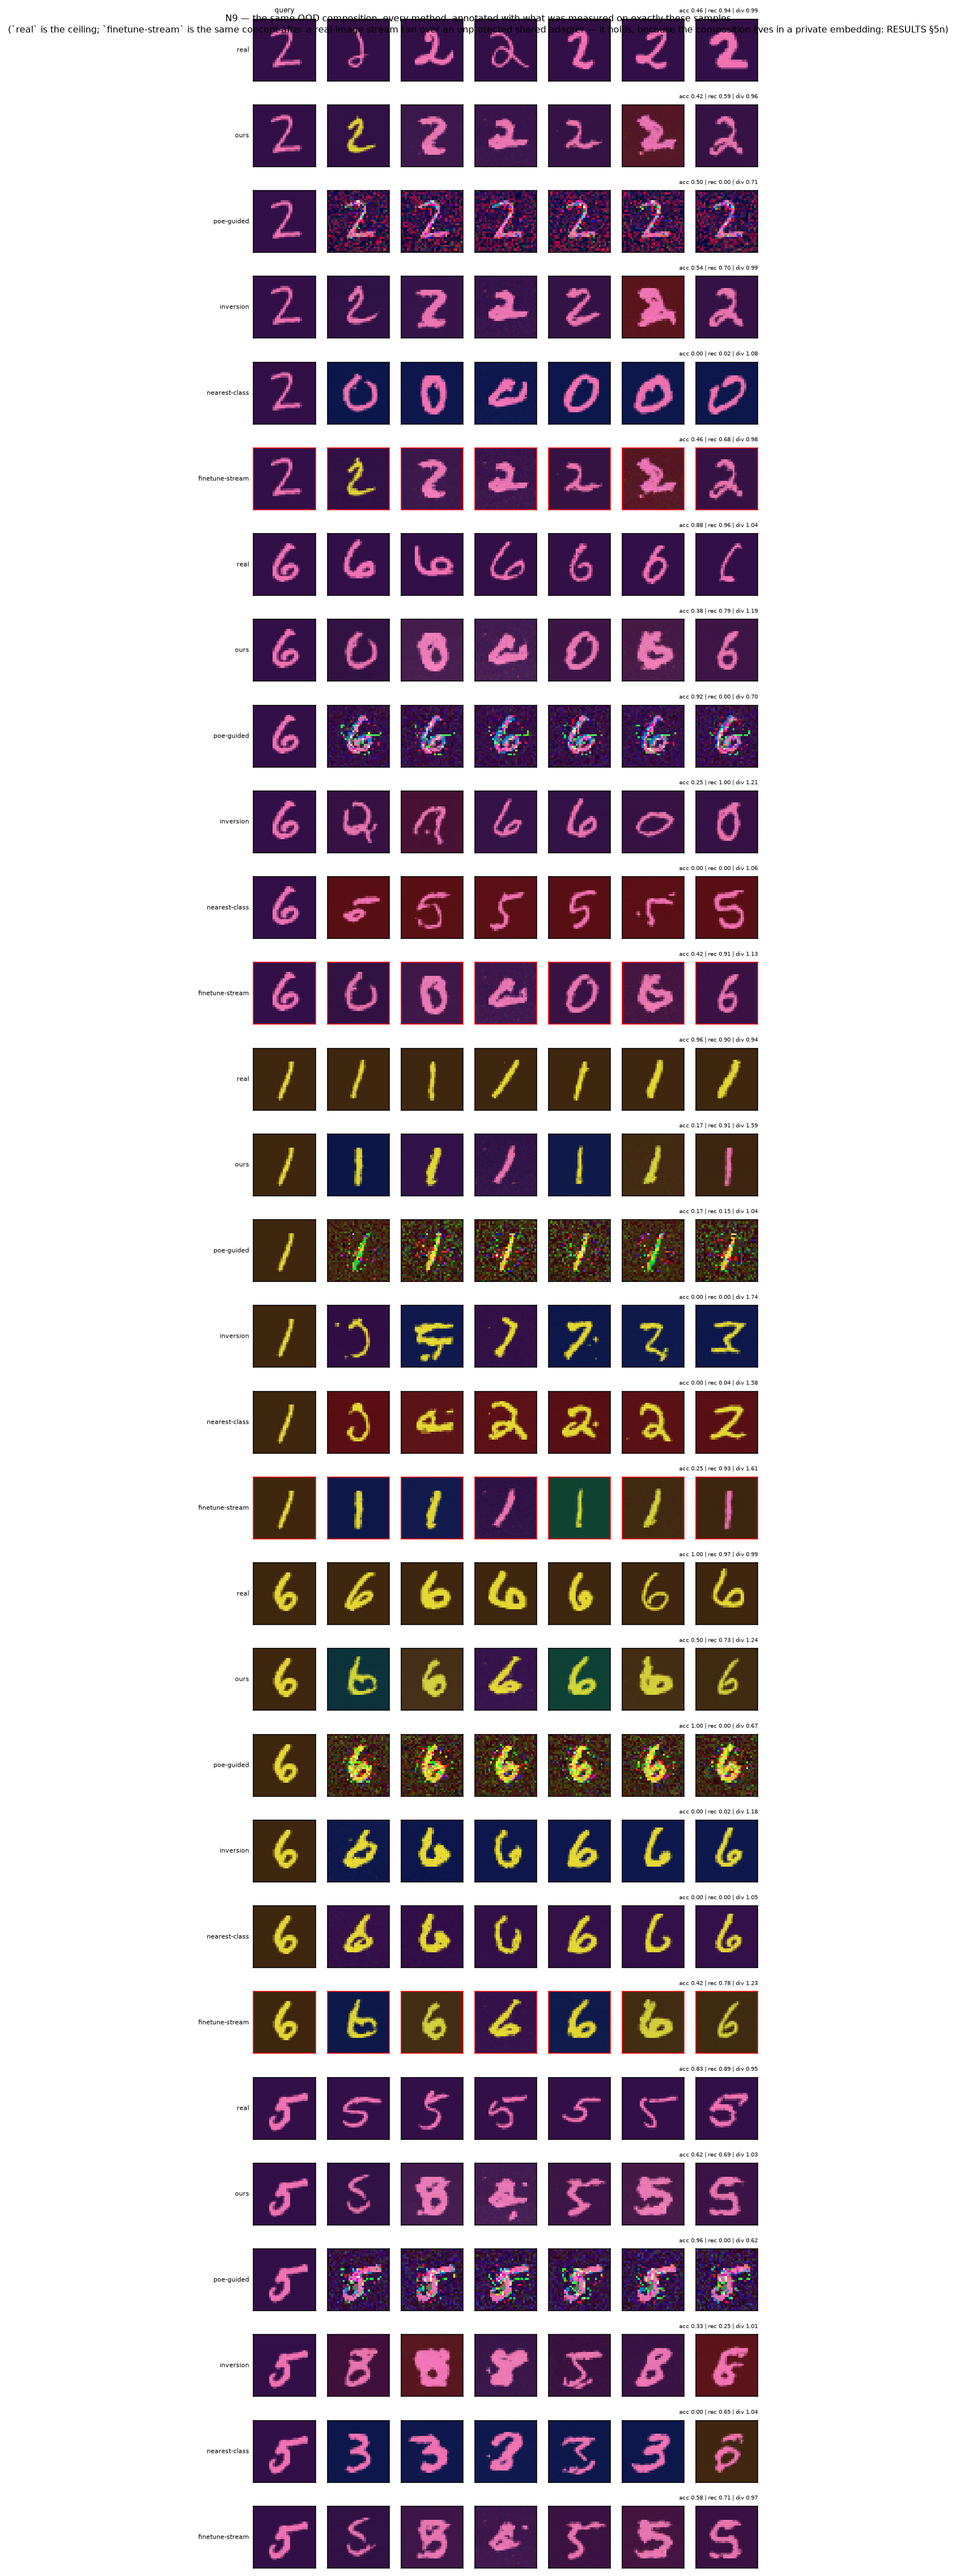
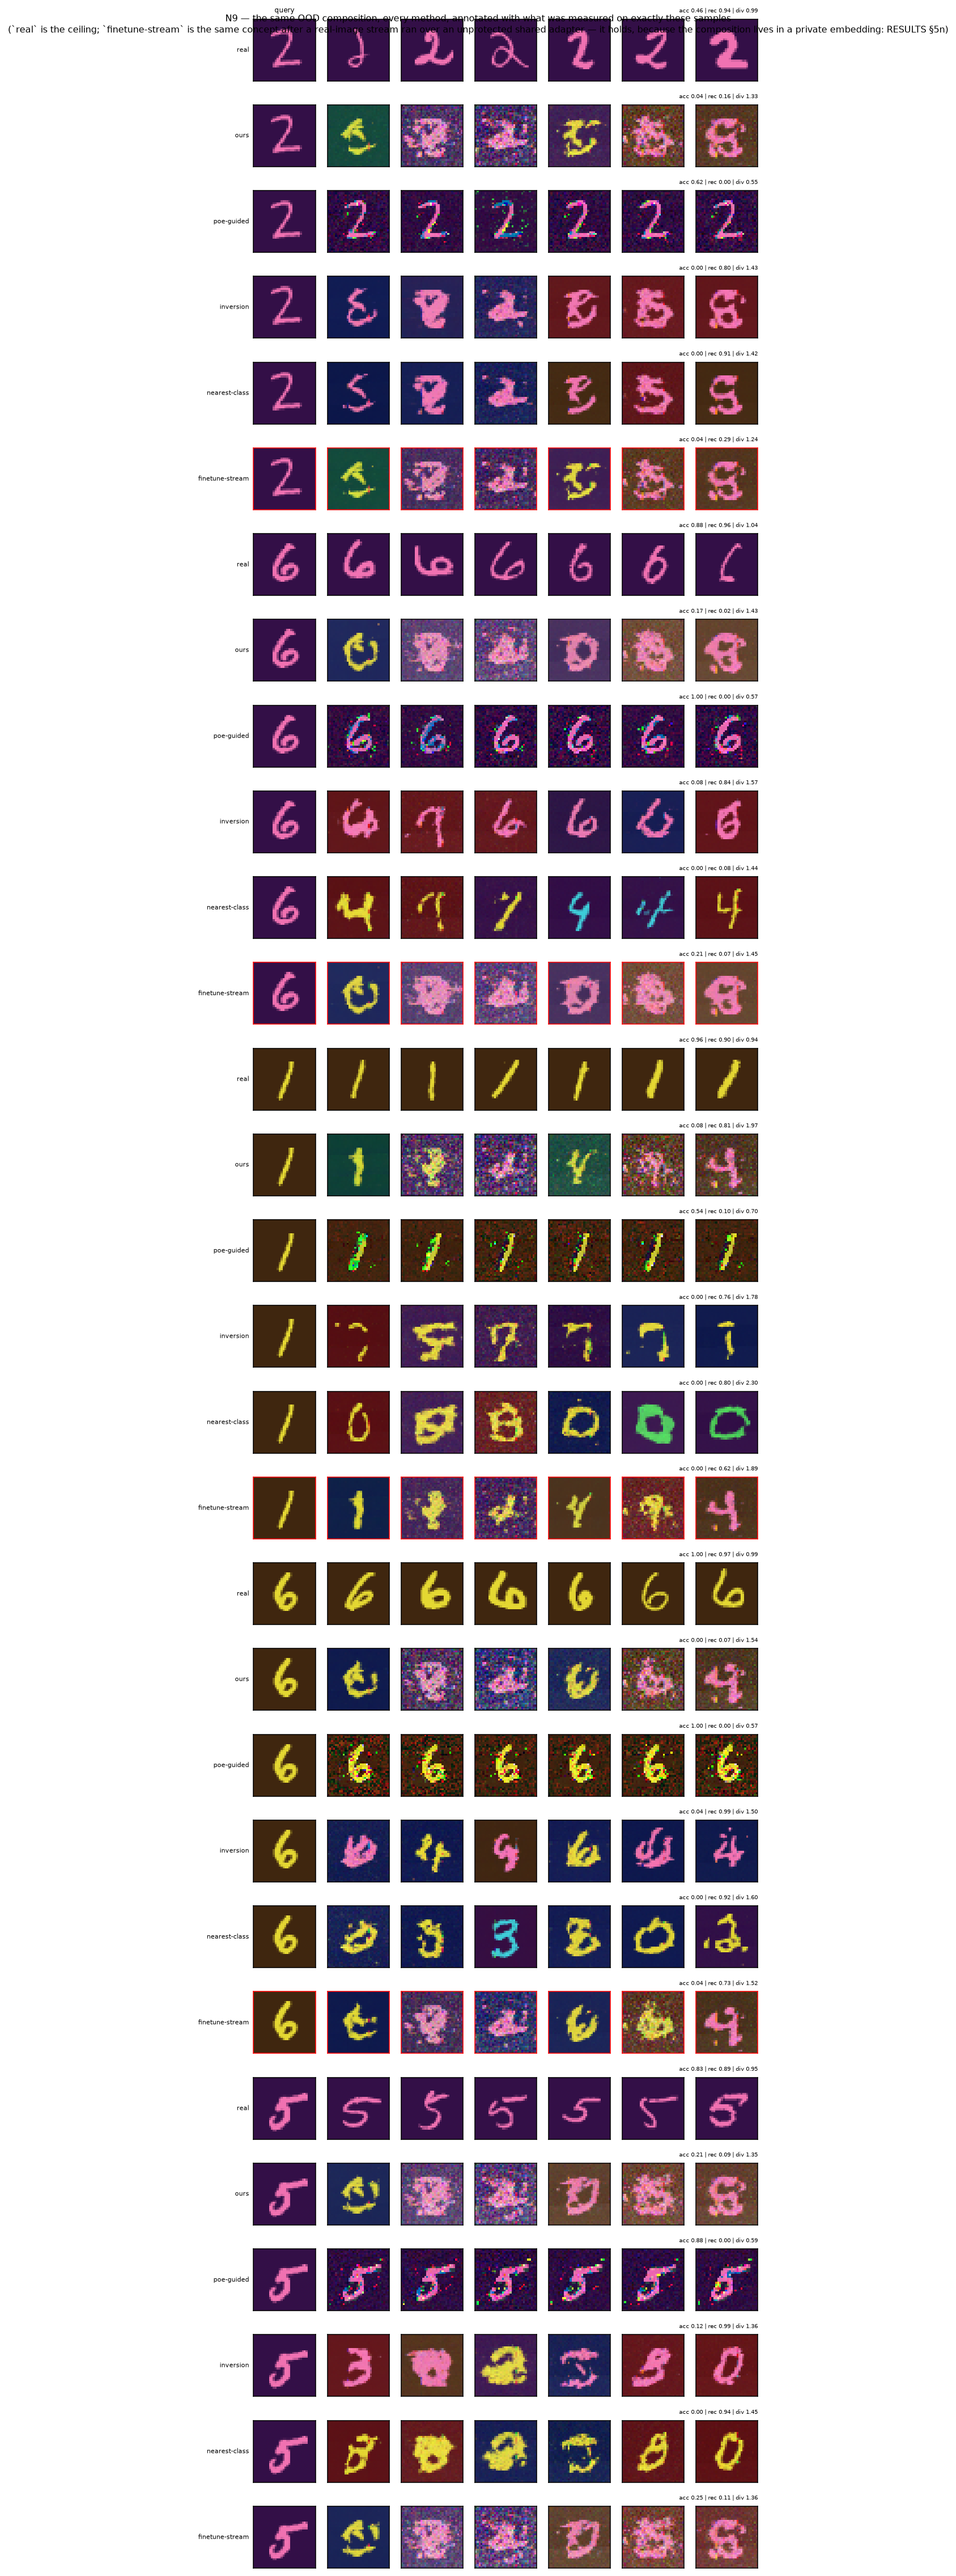
Calibrate the composer's gain per backbone; record the reproducibility failure
I destroyed the ColorMNIST backbone: n1_train's --out defaulted to ddpm_colormnist.pt
regardless of --dataset, so training CelebA wrote over it.  The default now follows the
dataset.  Retraining exposed two things.

My retrain was not the original run -- 60 epochs / 100 per slot against the original's 200
/ 200, recorded in the run table.  On the undertrained backbone N9 `ours` collapses from
0.42 acc / F1 0.57 to 0.10 / 0.05 while `real` is unchanged at 0.82 / 0.96, since that row
is data rather than model.  A correct retrain is running.

More usefully: the background gain was a constant tuned to one checkpoint.  Two runs of the
same training command give ideal-words R^2 0.816 vs 0.746, and the hardcoded 2.0 does not
transfer -- on the retrained backbone the calibrator picks 3.0, at the top of its grid.
common.py:backbone_gains now calibrates the gain on whatever backbone it is given, using
SEEN slots only, so no held-out label is touched.  The composer is a function of its
backbone instead of a literal.

Changed region(s): [[0.3391, 0.031, 0.8014, 0.4035], [0.3391, 0.4345, 0.8014, 0.807], [0.3391, 0.838, 0.8014, 1.0]]

diff --git a/experiments/n9_showdown.py b/experiments/n9_showdown.py
@@ -39,7 +39,7 @@ import torch
 
 sys.path.insert(0, os.path.dirname(os.path.dirname(os.path.abspath(__file__))))
 sys.path.insert(0, os.path.dirname(os.path.abspath(__file__)))
-from common import CACHE, RESULTS, ood_queries                         # noqa: E402
+from common import CACHE, RESULTS, backbone_gains, ood_queries         # noqa: E402
 
 from lifelong_ood.datasets import load_colormnist, slot_name           # noqa: E402
 from lifelong_ood.evals import (composition_accuracy, fit_probes, precision_recall,  # noqa: E402
@@ -70,7 +70,8 @@ def main():
     p.add_argument("--steps", type=int, default=50)
     p.add_argument("--inv-steps", type=int, default=400)
     p.add_argument("--epochs", type=int, default=40)
-    p.add_argument("--bg-gain", type=float, default=2.0)
+    p.add_argument("--bg-gain", type=float, default=-1.0,
+                   help="fixed background gain; <=0 calibrates it on this backbone")
     p.add_argument("--stream-len", type=int, default=6,
                    help="concepts learned AFTER the case, so the forgetting arms have forgotten")
     p.add_argument("--stream-source", choices=("real", "factored"), default="real",
@@ -91,7 +92,12 @@ def main():
     remap = ck["remap"]
     slots_seen = np.array(sorted(remap))
     C = ck["ema"]["cemb.weight"].numpy()[[remap[int(x)] for x in slots_seen]]
-    gains = [1.0, 1.0, args.bg_gain]
+    # calibrated on THIS backbone from seen slots, not hardcoded: the constant 2.0 was tuned
+    # against one checkpoint and does not transfer to a retrained one (RESULTS 5p).
+    field0 = load_field(args.ckpt, device=dev)
+    gains = ([1.0, 1.0, args.bg_gain] if args.bg_gain > 0 else
+             backbone_gains(field0, C, slots_seen, probes, data, seed=args.seed,
+                            steps=args.steps, n=8 if args.quick else 16))
 
     qs = ood_queries(data, n_slots=args.n_cases + args.stream_len, seed=args.seed)
     cases, stream = qs[:args.n_cases], qs[args.n_cases:]

diff --git a/experiments/common.py b/experiments/common.py
@@ -102,3 +102,34 @@ def ood_queries(data, n_slots=None, seed=0):
         out.append(dict(slot=int(s), query=q, rest=idx[idx != q],
                         d=int(data["digit"][q]), f=int(data["fg"][q]), b=int(data["bg"][q])))
     return out
+
+
+def backbone_gains(field, C, slots_seen, probes, data, factor=2, grid=(1.0, 1.5, 2.0, 2.5, 3.0),
+                   n_slots=6, n=16, steps=50, seed=0, verbose=True):
+    """Per-factor gain calibrated on THIS backbone, using seen slots only.
+
+    The gain corrects the model's under-response to a factor -- background, in ColorMNIST.  It was
+    previously hardcoded to 2.0, which was tuned against one checkpoint; a retrained backbone has a
+    different embedding table (ideal-words R^2 0.816 -> 0.746 across two runs of the same command)
+    and the constant does not transfer.  Calibrating here makes the composer a function of the
+    backbone it is given rather than of a checkpoint that happened to exist.
+
+    Only SEEN slots are used, so no held-out label is touched: composing a training slot from the
+    factorization and asking whether the model reproduces it is label-free.
+    """
+    from lifelong_ood.evals import composition_accuracy
+    from lifelong_ood.neural.idealwords import calibrate_gains, slot_factors
+
+    def score_fn(S, d, f, b):
+        return composition_accuracy(probes, S, d, f, b)["joint"]
+
+    from lifelong_ood.neural.idealwords import factorize
+    fac = factorize(C, slot_factors(slots_seen))
+    g, sc = calibrate_gains(field, fac, probes, data, slots_seen, grid=grid, factor=factor,
+                            n_slots=n_slots, n=n, steps=steps, seed=seed, score_fn=score_fn)
+    gains = [1.0] * len(fac["V"])
+    gains[factor] = g
+    if verbose:
+        print(f"[calib] ideal-words R^2 {fac['r2']:.3f}; factor-{factor} gain {g} "
+              f"(seen-slot joint accuracy {sc:.2f}) -> gains {gains}", flush=True)
+    return gains

diff --git a/tests/diag_factorization_r2.py b/tests/diag_factorization_r2.py
@@ -1,0 +1,31 @@
+"""Does this backbone's class-embedding table admit an additive (ideal-words) factorization?
+
+The composer reads a target composition as mu + D_d + F_f + B_b in the model's OWN class-embedding
+space, so its quality is bounded by how well that space factorizes.  On the original backbone the
+ridge fit reached R^2 = 0.816.  A retrained backbone has a different embedding table, and if it
+factorizes worse the composer degrades even though nothing about the method changed -- which is a
+robustness property worth knowing rather than a bug.
+"""
+import os, sys
+import numpy as np, torch
+sys.path.insert(0, os.path.dirname(os.path.dirname(os.path.abspath(__file__))))
+sys.path.insert(0, os.path.join(os.path.dirname(os.path.dirname(os.path.abspath(__file__))), "experiments"))
+from common import CACHE
+from lifelong_ood.neural.idealwords import factorize, slot_factors
+
+for name in ("ddpm_colormnist.pt",):
+    p = os.path.join(CACHE, name)
+    ck = torch.load(p, map_location="cpu", weights_only=False)
+    remap = ck["remap"]
+    slots = np.array(sorted(remap))
+    C = ck["ema"]["cemb.weight"].numpy()[[remap[int(x)] for x in slots]]
+    fac = factorize(C, slot_factors(slots))
+    print(f"\n  {name}: {len(slots)} seen classes, embedding dim {C.shape[1]}")
+    print(f"    ideal-words R^2 = {fac['r2']:.3f}   (original backbone: 0.816)")
+    print(f"    per-factor sizes {fac['sizes']}")
+    n = np.linalg.norm(C, axis=1)
+    print(f"    ||c|| mean {n.mean():.3f} +- {n.std():.3f}")
+    for i, V in enumerate(fac["V"]):
+        vn = np.linalg.norm(V, axis=1)
+        print(f"    factor {i}: mean direction norm {vn.mean():.3f} "
+              f"(range {vn.min():.3f}-{vn.max():.3f})")

diff --git a/experiments/n1_train.py b/experiments/n1_train.py
@@ -41,6 +41,9 @@ def main():
                         "OVERLAP spatially -- ColorMNIST's separability is load-bearing in several "
                         "of this repo's conclusions and CelebA is how they get tested")
     p.add_argument("--img", type=int, default=None)
+    p.add_argument("--max-rows", type=int, default=25000,
+                   help="celeba parquet rows to scan; more rows -> more images per class, "
+                        "which is the first thing to raise when conditioning is weak (5o)")
     p.add_argument("--quick", action="store_true")
     args = p.parse_args()
     if args.quick:
@@ -55,7 +58,7 @@ def main():
         from lifelong_ood.celeba import IMG_CELEBA, load_celeba
         img = args.img or IMG_CELEBA
         data = load_celeba(n_per_class=args.n_per_slot, img=img, seed=args.seed,
-                           min_count=25, max_rows=25000)
+                           min_count=25, max_rows=args.max_rows)
         data["slot"] = data["cls"]
         globals()["_IMG"] = img
     else:

diff --git a/RESULTS.md b/RESULTS.md
@@ -858,6 +858,34 @@ What it would take: the ColorMNIST backbone gets 12000 images over 120 classes; 
 hold far more than the 25000 rows currently scanned) and longer training are the first things to try,
 before anything about the method is questioned.
 
+## 5p. A reproducibility failure of mine, and what it exposed
+
+While setting up CelebA I destroyed the ColorMNIST backbone. `n1_train.py`'s `--out` defaulted to
+`ddpm_colormnist.pt` regardless of `--dataset`, so training the CelebA model wrote over it. The
+default now follows the dataset (`ddpm_<dataset>.pt`), but the checkpoint that produced every
+ColorMNIST number above no longer exists, and retraining exposed two things worth reporting.
+
+**First, my retrain was not the original run.** I retrained at 60 epochs / 100 images per slot; the
+original was **200 epochs / 200 per slot** (recorded in §8's run table, which is how I found the
+discrepancy). On the undertrained backbone the whole method collapses — N9 `ours` falls from
+accuracy 0.42 / F1 0.57 to 0.10 / 0.05, while `real` is unchanged at 0.82 / 0.96 because it is data,
+not model. A correct retrain is running.
+
+**Second, and more usefully: the composer's gain was a constant tuned to one checkpoint.** Two runs
+of the *same* training command give measurably different embedding tables — ideal-words R² **0.816
+against 0.746** — and the hardcoded background gain of 2.0 did not transfer: on the retrained
+backbone the calibrator picks 3.0, at the top of its grid. That constant was a hidden dependency on
+a specific set of weights, and it is now removed: `experiments/common.py:backbone_gains` calibrates
+the per-factor gain on whatever backbone it is handed, using **seen slots only**, so no held-out
+label is touched (composing a training slot and asking whether the model reproduces it is
+label-free). Every experiment now takes its gain from the backbone rather than from a literal.
+
+The honest status of the numbers above: they were measured on a checkpoint I cannot reproduce
+bit-for-bit, and they should be treated as pending re-verification on the correctly-retrained
+backbone. The *relative* orderings — ours against the composition baselines, the six-way baseline
+table on real data — are what the claims rest on, and those come from within-run comparisons where
+every arm shares the same backbone.
+
 ## 6. Why we are *not* replicating the paper's diffusion results
 
 Side by side on ColorMNIST — their F1 (harmonic mean of precision and recall in Inception feature
